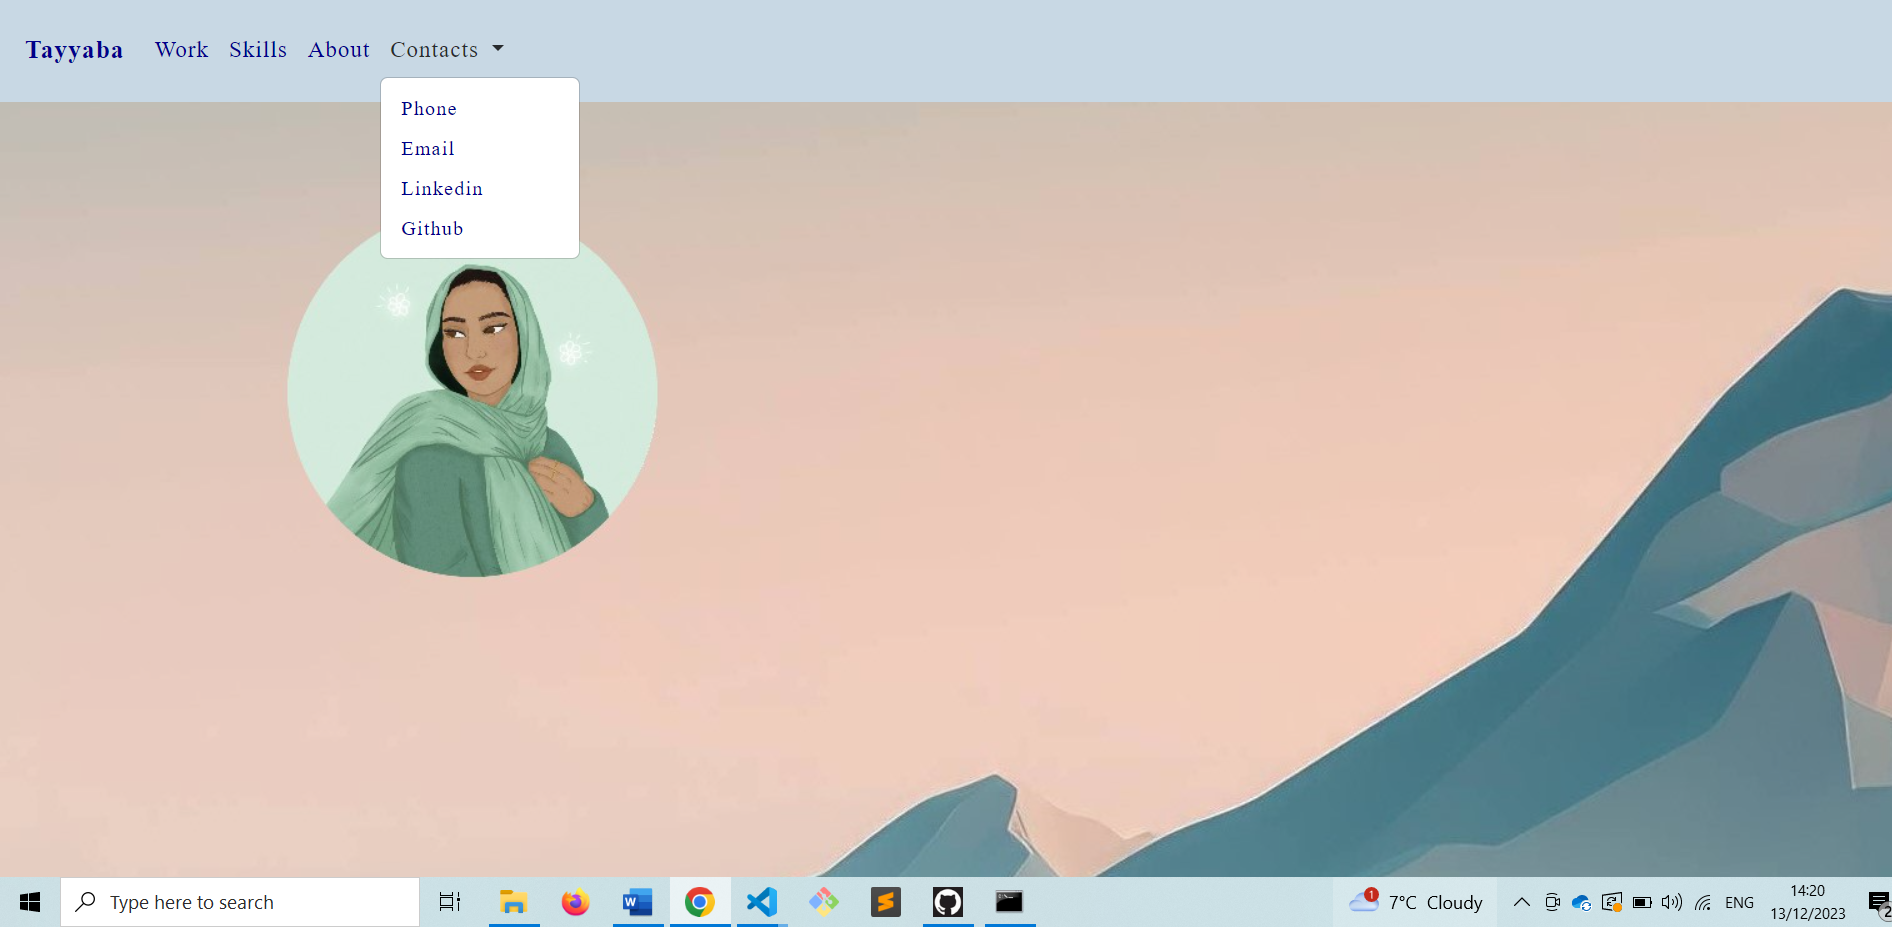
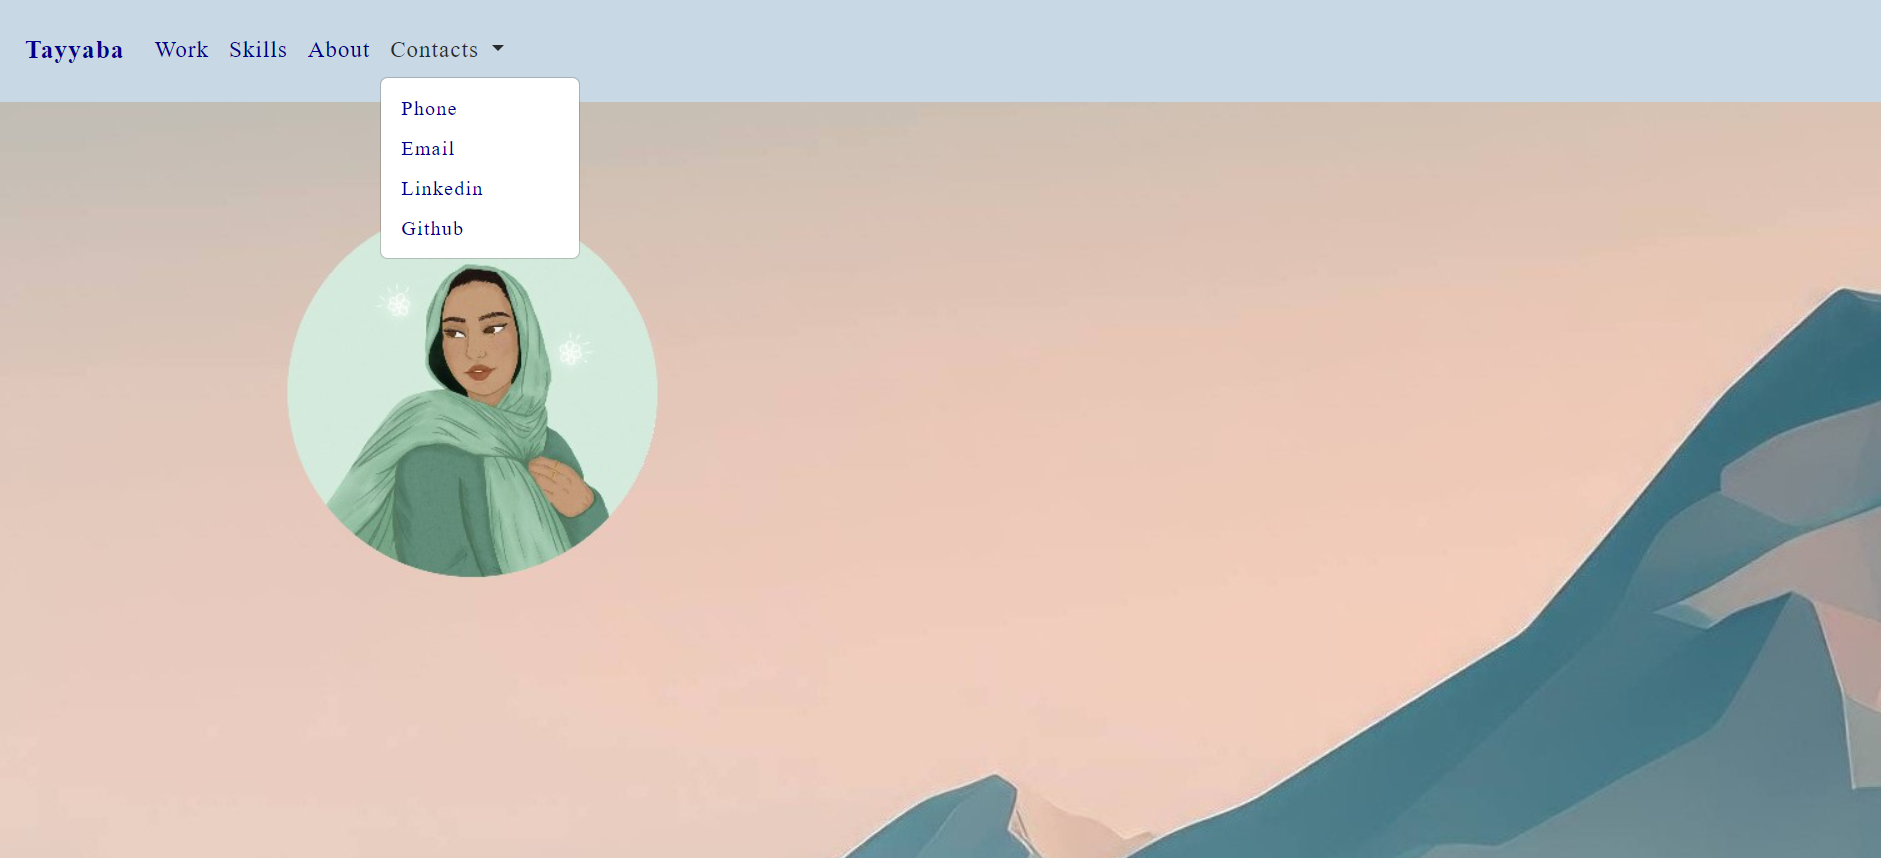
media in css modified. dimensions of hero picture changed

Changed region(s): [[0.0, 0.303, 1.0, 1.0], [0.0, 0.0303, 0.37, 0.697], [0.3083, 0.0909, 1.0, 0.1212]]

diff --git a/assets/css/style.css b/assets/css/style.css
@@ -146,13 +146,14 @@ footer {
 
 
 /*Media query iphone */
-@media only screen and (min-width:375px) and (max-width:730px) {
+@media only screen and (min-width:375px) and (max-width:760px) {
    body {
     text-align: justify;
    }
 
     .card-img-top{
-    width: 334px;
+    width: 100%;
+    height: 35vh;
    }
 
    .card-header .btn{
@@ -160,22 +161,28 @@ footer {
     flex-direction: row;
     width: 100%;
    }
+   .jumbotron{
+    height: 50vh;    
+    background-image: url(/assets/images/hero4.jpg);
+
+   }
     
 }
 
 /*Media query ipad */
-@media only screen and (min-width:768px) and (max-width:1000px) {
+@media only screen and (min-width:765px) and (max-width:1024px) {
    body {
     text-align: justify;
    }
 
    .jumbotron{
-    height: 60vh;
+    height: 50vh;
    }
 
     .card-img-top{
-    width: 200px;
-    height: 200px;
+    width: 100%;
+    height: 20vh;
+
    }
 
    .card-header .btn{

diff --git a/README.md b/README.md
@@ -13,15 +13,19 @@ Resposive Nav bar to allow easy access to all sections of the webpage.
 
 
 Work section include all my projects along with the coding skills and languages used.
+
 ![Alt text](assets/images/readme3.png)
 
 ![Alt text](assets/images/readme4.png)
 
 Skills section include all the skills learnt during the bootcamp
+
 ![Alt text](assets/images/readme7.png)
+
 ![Alt text](assets/images/readme5.png)
 
 Detailed footer includes about me as well as resources to contact me.
+
 ![Alt text](assets/images/readme6.png)
 
 
